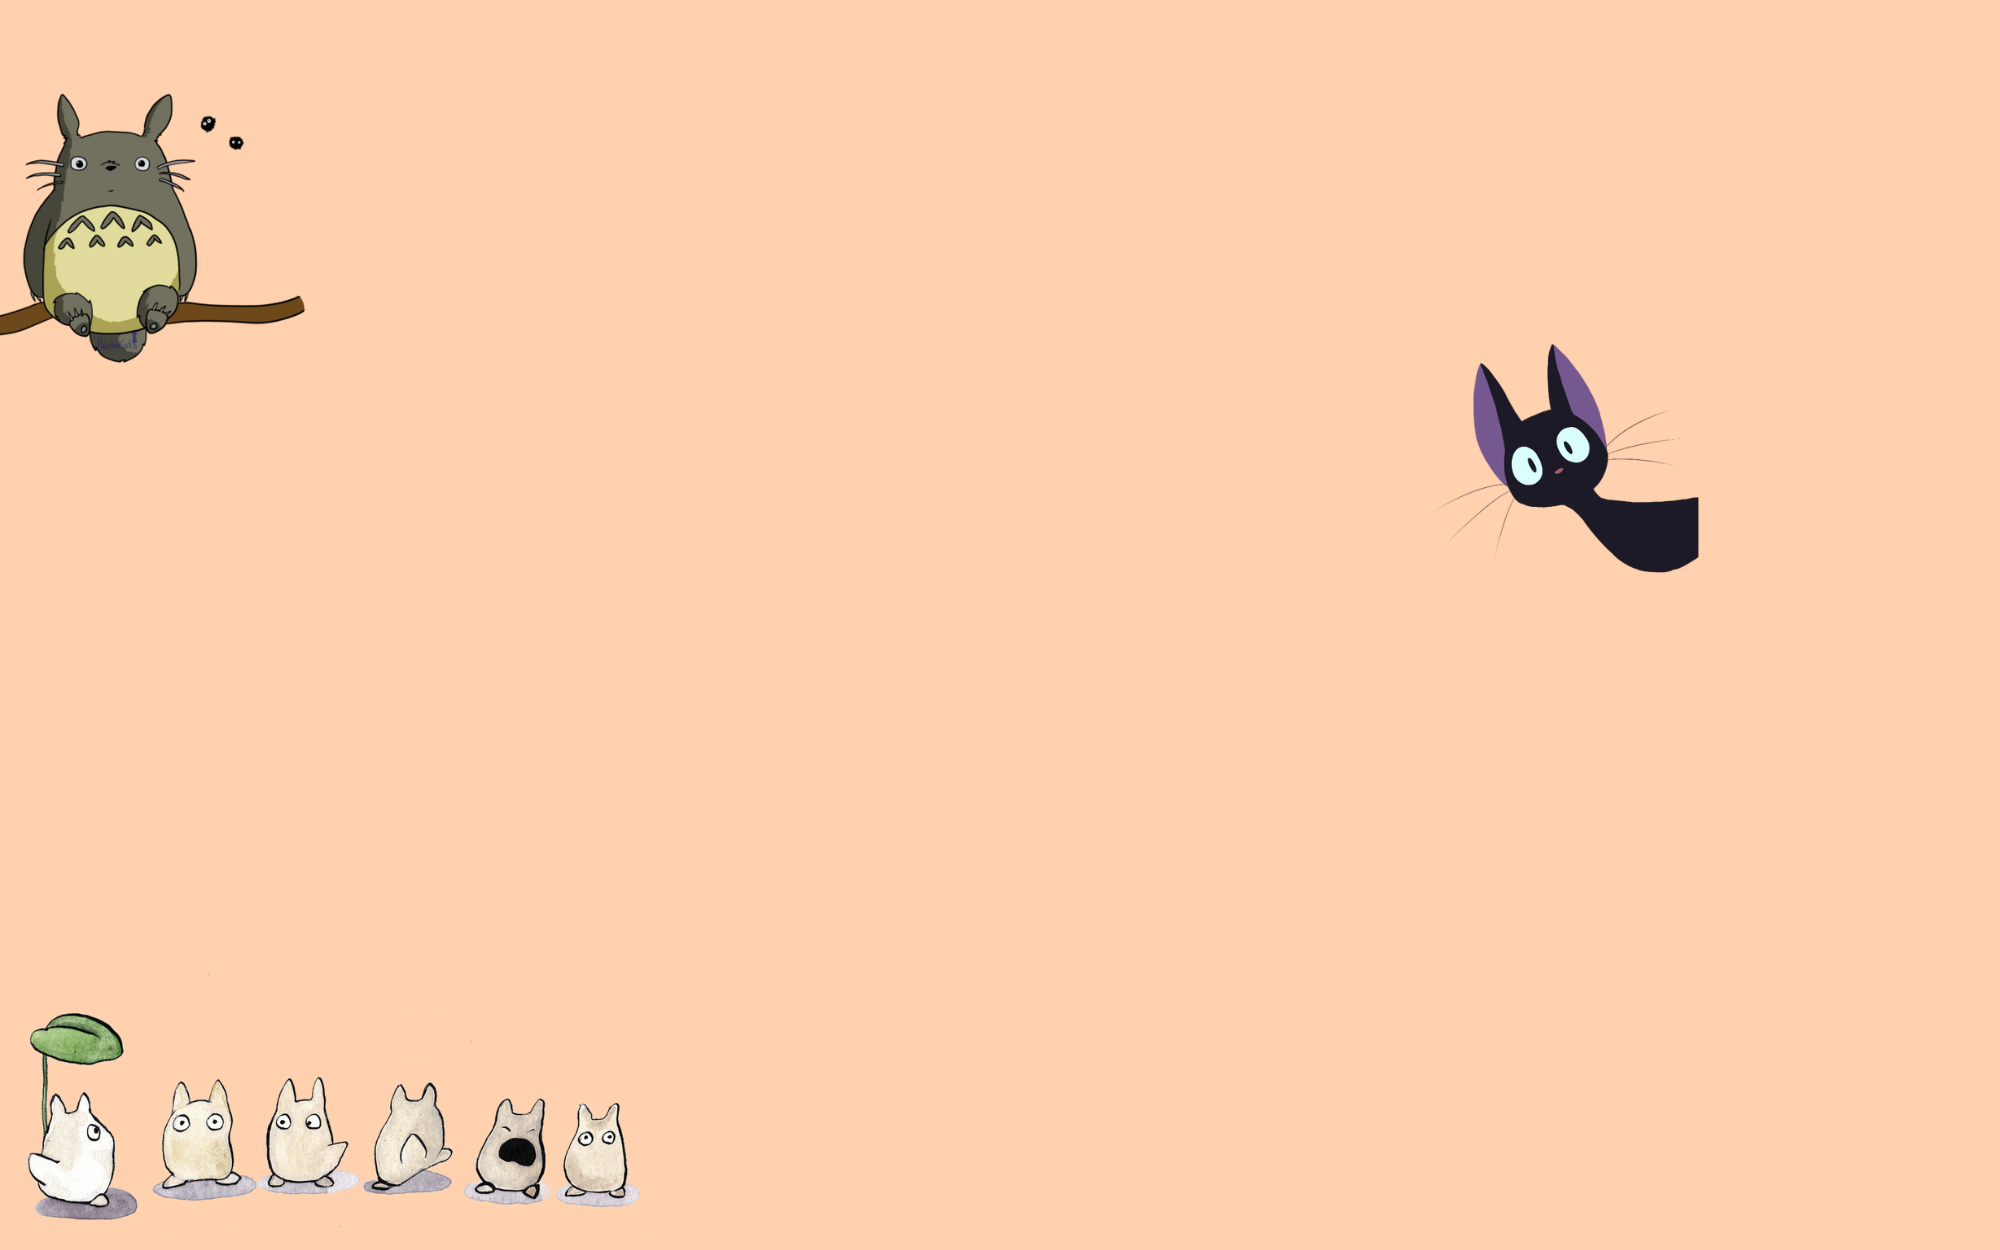
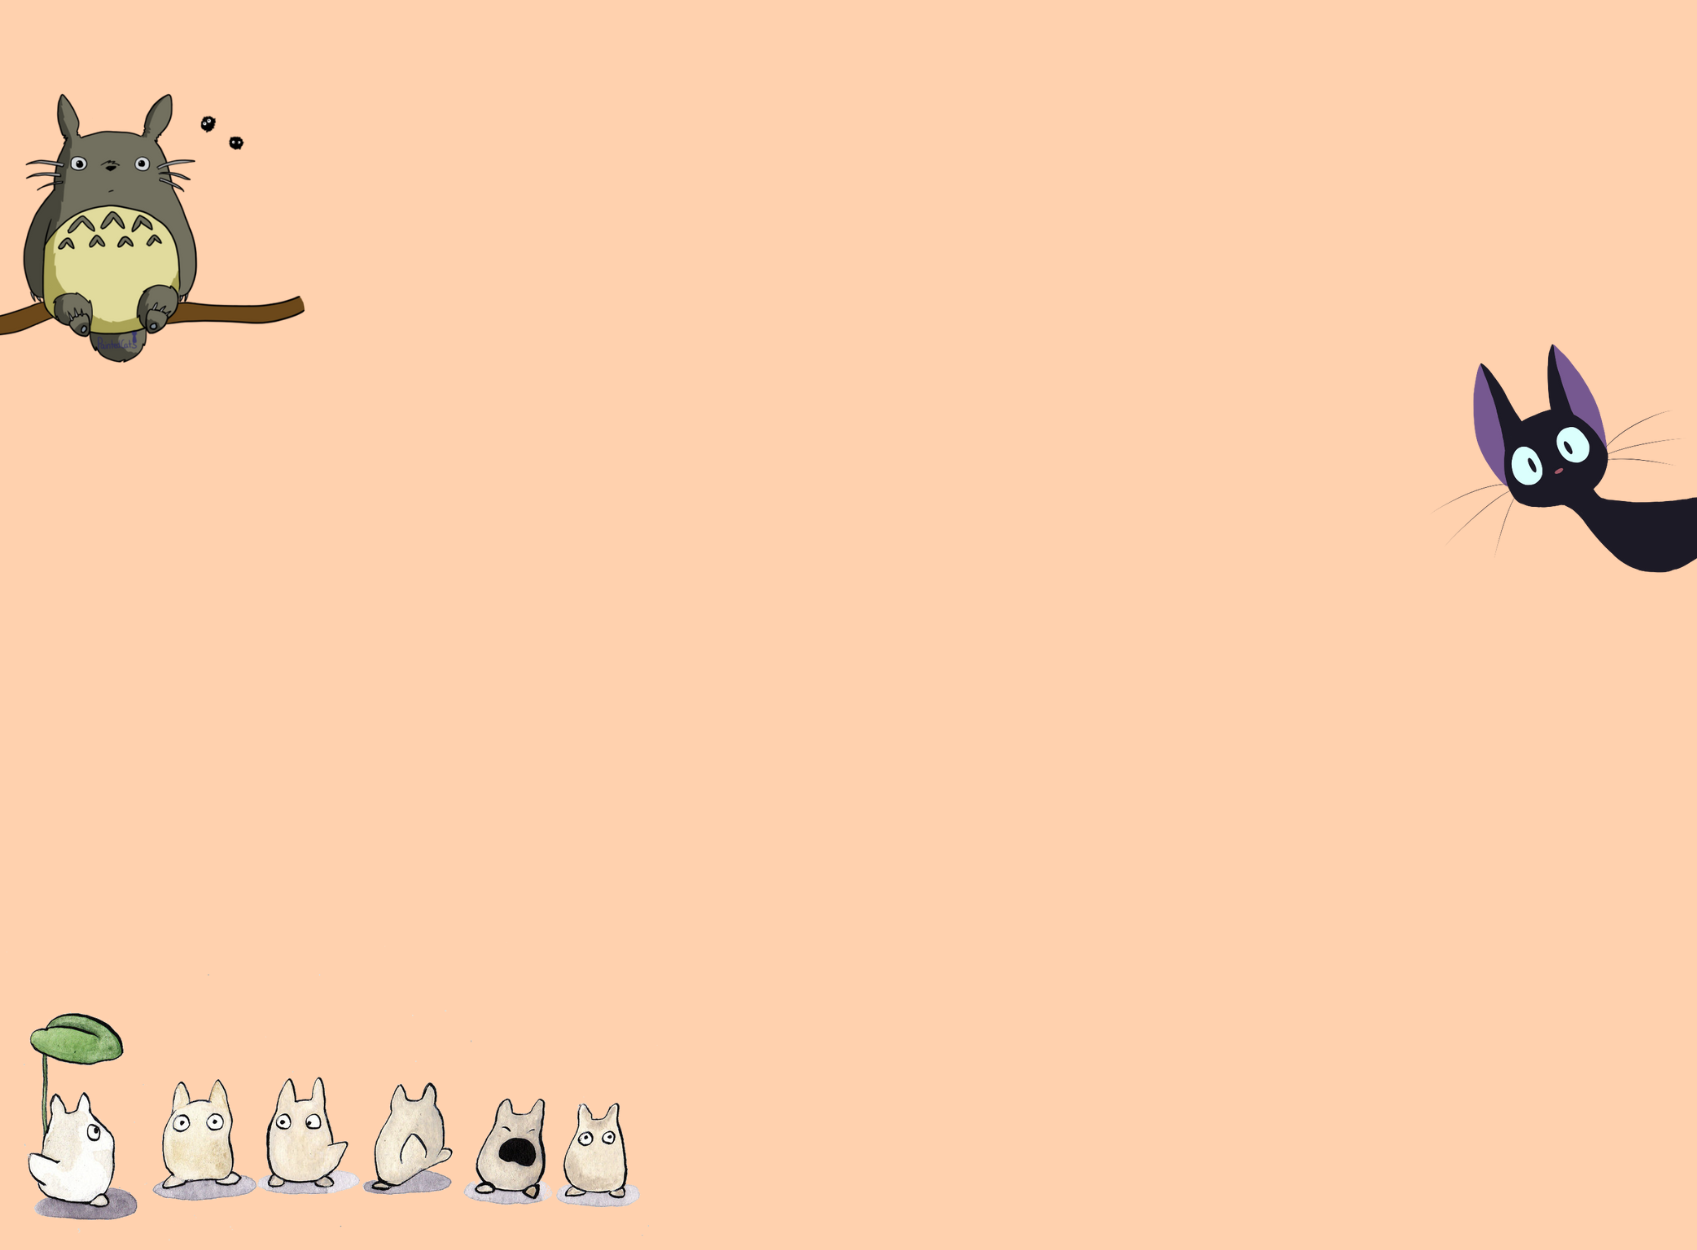
final touches

diff --git a/styles.css b/styles.css
@@ -1,8 +1,8 @@
 body {
     font-family: "Segoe UI", Tahoma, Geneva, Verdana, sans-serif; 
-    /*background-image:url("ig.png") ; 
-    background-size: cover;*/
-    background: #ffd1ae;
+    background-image:url("ig.png") ; 
+    background-size: cover;
+    /*background: #ffd1ae;*/
     color: #4e3629; 
     margin: 0;
     padding: 0;
@@ -39,29 +39,12 @@ nav a:hover {
     border-radius: 5px;
 }
 
-.btn {
-    background-color: #8b5e3b; 
-    padding: 10px 20px;
-    border: none;
-    border-radius: 8px;
-    cursor: pointer;
-    box-shadow: 0px 4px 8px rgba(0, 0, 0, 0.2);
-}
-.btn:hover {
-    background-color: #d8a47c ;
-    transform: scale(1.05);
-}
 .edit-btn {
     background-color: #a67b5b;
 }
 
 .delete-btn {
     background-color: #d66b4d; 
-}
-
-.btn:hover, .delete-btn:hover, .edit-btn:hover {
-    box-shadow: 0px 6px 12px rgba(0, 0, 0, 0.25);
-    transform: translateY(-2px);
 }
 
 .edit-btn:hover {
@@ -101,9 +84,8 @@ nav a:hover {
 
 .search-icon {
     position: absolute;
-    left: 15px; 
-    font-size: 1.2em;
-    color: #8b5e3b; 
+    left: 20px; 
+    font-size: 1.4em;
 }
 
 @media (max-width: 768px) {
@@ -162,7 +144,7 @@ form label {
     display: block;
     font-weight: bold;
     color: #4e3629;
-    margin-bottom: 8px;
+    margin-bottom: 5px;
 }
 
 form input, form select {
@@ -235,7 +217,6 @@ h1, h2, h3 {
     justify-content: center;
     align-items: center;
     min-height: 50vh; 
-    background-color: #f0f4f8;
 }
 .center-container:first-of-type {
     margin-top: 20px; 
@@ -259,11 +240,6 @@ h1, h2, h3 {
 .input-container {
     margin: 10px 0;
 }
-label {
-    font-weight: bold;
-    display: block;
-    margin-bottom: 5px;
-}
 input { 
     padding: 10px; 
     width: 95%; 
@@ -282,7 +258,15 @@ table .edit-btn, table .delete-btn {
     box-shadow: 0px 2px 6px rgba(0, 0, 0, 0.1);
 }
 .editBtn { 
-    background-color: #8b5e3b;
+    padding: 10px 20px;
+    color: white;
+    border: none;
+    border-radius: 8px;
+    font-weight: bold;
+    cursor: pointer;
+    transition: all 0.3s ease;
+    box-shadow: 0px 4px 8px rgba(0, 0, 0, 0.2);
+    background-color: #8b5e3b; 
 }
 .edit-btn:hover, .delete-btn:hover {
     transform: translateY(-1px);
@@ -291,7 +275,6 @@ table .edit-btn, table .delete-btn {
 .sort-icon {
     font-size: 0.8em;
     margin-left: 5px;
-    color: #ffffff;
     cursor: pointer;
 }
 .button-container {
@@ -310,13 +293,7 @@ table .edit-btn, table .delete-btn {
     cursor: pointer;
     transition: all 0.3s ease;
     box-shadow: 0px 4px 8px rgba(0, 0, 0, 0.2);
-}
-.filter-btn {
     background-color: #8b5e3b; 
-}
-
-.add-btn {
-    background-color: #8b5e3b;
 }
 
 .btn:hover, .filter-btn:hover, .add-btn:hover {

diff --git a/personal_info.html b/personal_info.html
@@ -55,15 +55,20 @@
     </div>
 
     <script>
-        const userData = JSON.parse(localStorage.getItem('userData')) || {};
+        const userData = {
+            username: "amal",
+            email: "amalabuhmoud@gmail.com",
+            password: "anything"
+        };
     
         function displayUserInfo() {
-            document.getElementById('username').value = userData.username || '';
-            document.getElementById('email').value = userData.email || '';
-            document.getElementById('password').value = userData.password || '';
+            document.getElementById('username').value = userData.username;
+            document.getElementById('email').value = userData.email;
+            document.getElementById('password').value = userData.password;
         }
-
+    
         displayUserInfo();
+    
         document.querySelector('.editBtn').addEventListener('click', function() {
             const inputs = document.querySelectorAll('#userInfo input');
             inputs.forEach(input => {
@@ -74,7 +79,7 @@
             });
             
             this.textContent = this.textContent === 'Edit' ? 'Save' : 'Edit';
-
+    
             if (this.textContent === 'Save') {
                 const updatedData = {
                     username: document.getElementById('username').value,
@@ -91,6 +96,7 @@
                 localStorage.setItem('cardData', JSON.stringify(cardData));
             }
         });
-    </script>    
+    </script>
+    
 </body>
 </html>
